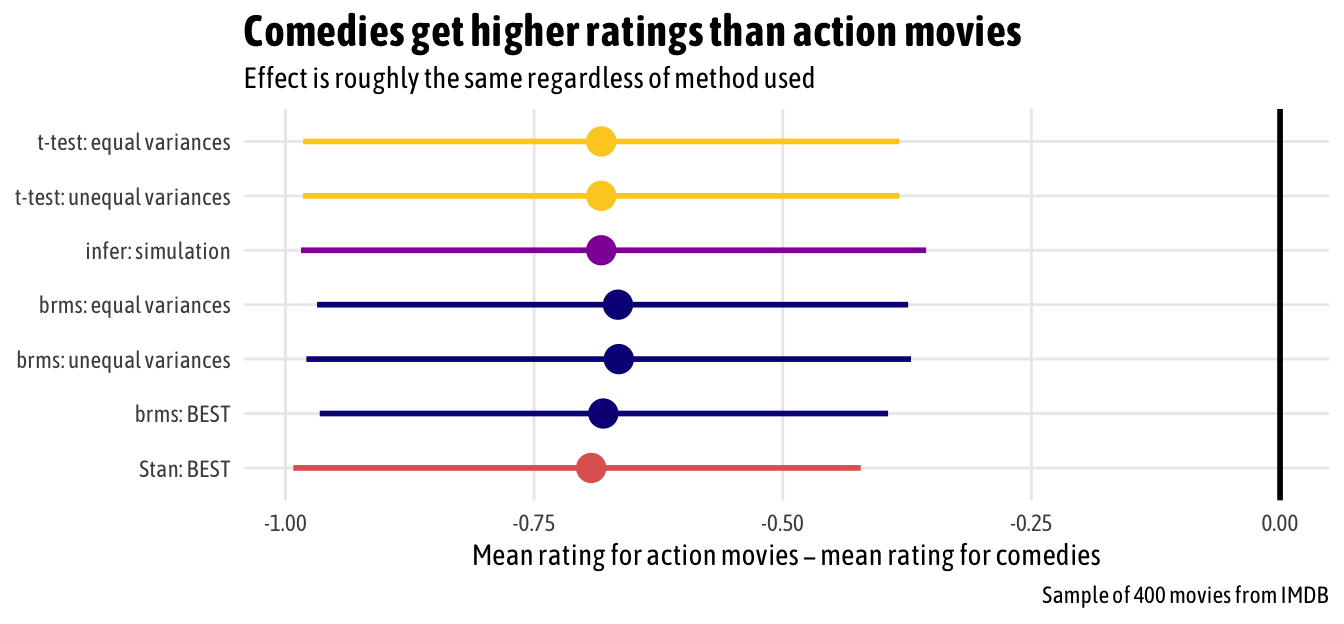
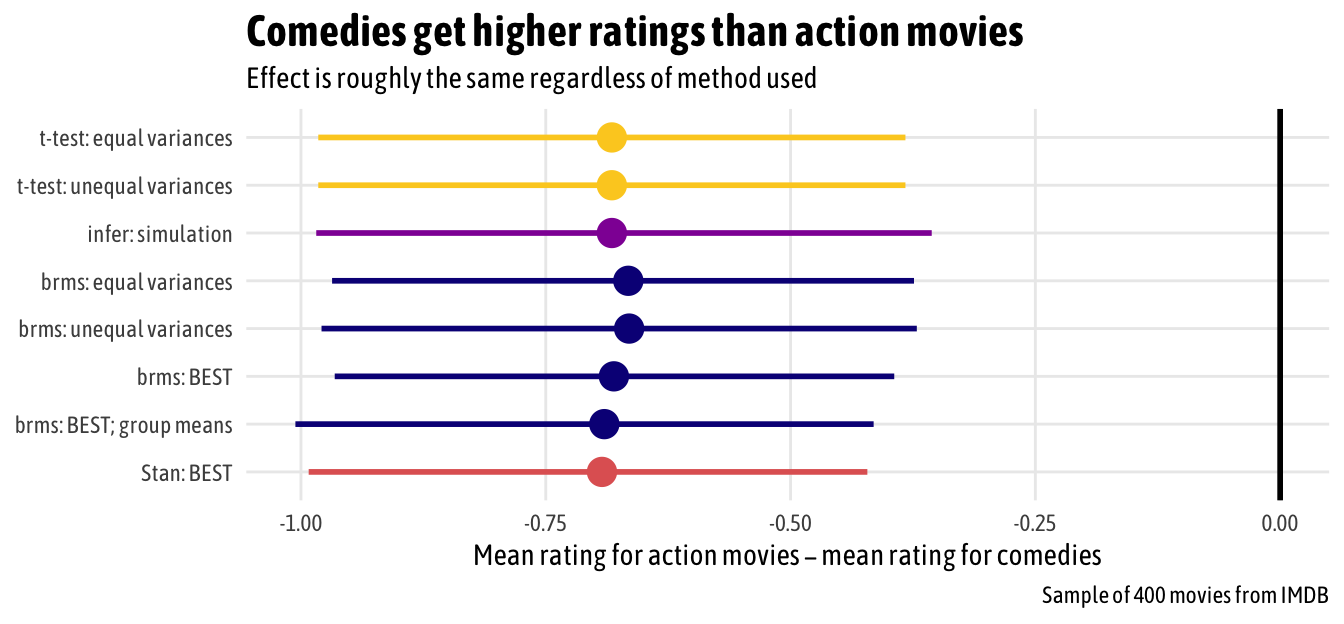
Add section about intercept-less brms

diff --git a/README.md b/README.md
@@ -624,7 +624,7 @@ norm_ggplot <- ggplot(data = tibble(x = c(-20, 20)), aes(x = x)) +
 
 cauchy_ggplot <- ggplot(data = tibble(x = c(-5, 5)), aes(x = x)) +
   stat_function(fun = dcauchy, n = 500, args = list(location = 0, scale = 1)) +
-  labs(title = "cauchy(0, 1") +
+  labs(title = "cauchy(0, 1)") +
   theme_fancy()
 
 norm_ggplot / cauchy_ggplot
@@ -842,11 +842,10 @@ stan_best_tidy
 
 One advantage of running the analysis with raw Stan instead of forcing
 it into regression form is that we can have Stan calculate all sorts of
-stuff for us. Note how the `sigma` coefficient is already in the right
-scale (I estimated one sigma for both groups here, but that’s not
-necessary). The averages for both groups get returned (`mu[1]` and
+stuff for us. The averages for both groups get returned (`mu[1]` and
 `mu[2]`), along with `mu_diff`, so there’s no need to combine slope and
-intercept terms. I also (following Kruschke and others) made it so that
+intercept terms. Also note how the `sigma` coefficients are already in
+the right scale. I also (following Kruschke and others) made it so that
 the Stan code returned information about effect sizes, including
 [Cohen’s d](https://en.wikipedia.org/wiki/Effect_size#Cohen's_d),
 which is the standardized difference in means, and the [common language
@@ -859,6 +858,147 @@ Here, the difference in means is the same as all the other methods, but
 the effect size isn’t terribly huge. According to Cohen’s d, we have a
 medium effect size, and there’s a 34% chance that we could randomly
 select an action rating from the comedy distribution.
+
+## Regression, BEST, with priors on variables instead of difference
+
+*(I added this section later)*
+
+In the Twitter discussion that followed this post, [Mike
+DeCrescenzo](https://mikedecr.github.io/) made a [fascinating
+point](https://twitter.com/mikedecr/status/1090416939917340672) that
+relying on regression for t-test-like analysis with Bayesianism actually
+has important theoretical implications.
+
+When specifying a model as `y ~ a + bx` as we did above with `rating ~
+genre`, the coefficient for genre (`b`) is actually the difference in
+means and doesn’t directly reflect the rating itself. In theory, if
+we’re thinking about two groups with two different variances, we
+should model the distribution of each group, not the distribution of the
+differences in groups. Analyzing the distributions of the two groups
+separately and *then* calculating the difference should yield more
+transparent results. Plus it’s easier to think about setting priors on
+two variables that were measured in real life (e.g. ratings for comedies
+and action movies), rather than setting priors on whatever the
+difference between those looks like.
+
+The raw Stan code above does this correctly by feeding two groups into
+the model rather than the difference in means. [TJ
+Mahr](https://twitter.com/tjmahr/status/1090417050600816641?s=21) and
+[Solomon Kurz’s translation of Kruschke’s code into
+**brms**](https://github.com/ASKurz/Doing-Bayesian-Data-Analysis-in-brms-and-the-tidyverse)
+([see near the bottom of
+chapter 16](https://github.com/ASKurz/Doing-Bayesian-Data-Analysis-in-brms-and-the-tidyverse/blob/master/16.md))
+both show that we can do this with **brms** by changing the formula
+slightly. If we suppress the intercept by running a model like `ratiing
+~ 0 + genre`, **brms** returns coefficients for each of the groups (no
+more base case\!), and these coefficients represent group means.
+
+Here’s an intercept-free version of the **brms**-based BEST regression
+from earlier. Note how we’re modeling both the rating and the group
+sigmas without intercepts (`rating ~ 0 + genre, sigma ~ 0 + genre`), and
+that we no longer specify a prior for the intercept (if we do, `brm()`
+yells at us). Also note that instead of modeling the beta coefficient as
+a normal distribution centered around zero (since that represented the
+difference in means), we specify the distribution of action and comedy
+ratings themselves. Because we’re dealing with actual ratings, we can
+make them fairly well informed and constrained. For instance, no movie
+is rated below 1 or above 10, and I’m guessing from past experience
+looking at ratings on Amazon and IMDB and elsewhere that people tend to
+inflate their ratings. I’d guess that the distribution of ratings looks
+something like this: normally distributed with a mean of 6, standard
+deviation of 2, and truncated at 1 and
+10.
+
+``` r
+# Cool extra thing I discovered: the msm library has rtnorm, dtnorm, and family
+# which let you plot and draw from a truncated normal distribution
+# msm::rtnorm(1000, mean = 6, sd = 2, lower = 1, upper = 10)
+ggplot(data = tibble(x = c(1, 10)), aes(x = x)) +
+  stat_function(fun = dnorm, n = 500, args = list(mean = 6, sd = 2)) +
+  labs(title = "normal(6, 2); truncated at 1 and 10") +
+  theme_fancy()
+```
+
+<img src="README_files/figure-gfm/dist-ratings-1.png" width="480" />
+
+Now we can run the model like normal:
+
+``` r
+brms_uneq_robust_groups <- brm(
+  bf(rating ~ 0 + genre, sigma ~ 0 + genre), 
+  family = student,
+  data = mutate(movies_clean, genre = fct_rev(genre)),
+  prior = c(
+    # Set group mean prior
+    set_prior("normal(6, 2)", class = "b", lb = 1, ub = 10),
+    # Ser group variance priors. We keep the less informative cauchy(0, 1).
+    set_prior("cauchy(0, 1)", class = "b", dpar = "sigma"),
+    set_prior("exponential(1.0/29)", class = "nu")),
+  chains = CHAINS, iter = ITER, warmup = WARMUP, seed = BAYES_SEED,
+  file = "cache/brms_uneq_robust_groups"
+)
+```
+
+We still need to exponentiate the sigma coefficients when we’re done.
+
+``` r
+brms_uneq_robust_groups_tidy <- 
+  tidyMCMC(brms_uneq_robust_groups, conf.int = TRUE, conf.level = 0.95, 
+           estimate.method = "median", conf.method = "HPDinterval") %>% 
+  # Rescale sigmas
+  mutate_at(vars(estimate, std.error, conf.low, conf.high),
+            funs(ifelse(str_detect(term, "sigma"), exp(.), .)))
+brms_uneq_robust_groups_tidy
+```
+
+    ## # A tibble: 5 x 5
+    ##   term                estimate std.error conf.low conf.high
+    ##   <chr>                  <dbl>     <dbl>    <dbl>     <dbl>
+    ## 1 b_genreComedy           5.99     0.109     5.77      6.19
+    ## 2 b_genreAction           5.30     0.107     5.09      5.50
+    ## 3 b_sigma_genreComedy     1.47     1.06      1.30      1.65
+    ## 4 b_sigma_genreAction     1.47     1.06      1.31      1.62
+    ## 5 nu                     29.9     28.1       6.00     92.7
+
+Because we calculated the group means themselves, we need to do an extra
+few steps to get the difference in means. It’s fairly easy: we extract
+the posterior samples for each of the groups, subtract them from each
+other, and then calculate the credible
+interval.
+
+``` r
+brms_uneq_robust_groups_post <- posterior_samples(brms_uneq_robust_groups) %>% 
+  # We can exponentiate here!
+  mutate_at(vars(contains("sigma")), funs(exp)) %>% 
+  # For whatever reason, we need to log nu?
+  mutate(nu = log10(nu)) %>% 
+  mutate(diff_means = b_genreAction - b_genreComedy,
+         diff_sigma = b_sigma_genreAction - b_sigma_genreComedy) %>% 
+  # Calculate effect sizes, just for fun
+  mutate(cohen_d = diff_means / sqrt((b_sigma_genreAction + b_sigma_genreComedy)/2),
+         cles = dnorm(diff_means / sqrt((b_sigma_genreAction + b_sigma_genreComedy)), 0, 1))
+
+brms_uneq_robust_groups_tidy_fixed <- 
+  tidyMCMC(brms_uneq_robust_groups_post, conf.int = TRUE, conf.level = 0.95, 
+           estimate.method = "median", conf.method = "HPDinterval")
+brms_uneq_robust_groups_tidy_fixed
+```
+
+    ## # A tibble: 9 x 5
+    ##   term                estimate std.error conf.low conf.high
+    ##   <chr>                  <dbl>     <dbl>    <dbl>     <dbl>
+    ## 1 b_genreComedy        5.99       0.109     5.77      6.19 
+    ## 2 b_genreAction        5.30       0.107     5.09      5.50 
+    ## 3 b_sigma_genreComedy  1.47       0.0882    1.30      1.64 
+    ## 4 b_sigma_genreAction  1.47       0.0826    1.31      1.62 
+    ## 5 nu                   1.48       0.287     0.963     2.04 
+    ## 6 diff_means          -0.690      0.151    -1.01     -0.415
+    ## 7 diff_sigma           0.00100    0.111    -0.212     0.217
+    ## 8 cohen_d             -0.571      0.126    -0.818    -0.327
+    ## 9 cles                 0.368      0.0132    0.341     0.391
+
+And voila\! Difference in means based on priors on individual group
+means rather than differences in groups\!
 
 ## Comparing all methods
 
@@ -901,6 +1041,10 @@ brms_uneq_robust_small <- brms_uneq_robust_tidy %>%
   filter(term == "b_genreAction") %>% 
   select(estimate, conf.low, conf.high)
 
+brms_uneq_robust_groups_small <- brms_uneq_robust_groups_tidy_fixed %>% 
+  filter(term == "diff_means") %>% 
+  select(estimate, conf.low, conf.high)
+
 # Extract Stan results
 stan_best_small <- stan_best_tidy %>% 
   filter(term == "mu_diff") %>% 
@@ -915,6 +1059,7 @@ meta_diffs <- tribble(
   "brms", "equal variances", brms_eq_small,
   "brms", "unequal variances", brms_uneq_small,
   "brms", "BEST", brms_uneq_robust_small,
+  "brms", "BEST; group means", brms_uneq_robust_groups_small,
   "Stan", "BEST", stan_best_small
 ) %>% 
   unnest(results) %>% 
